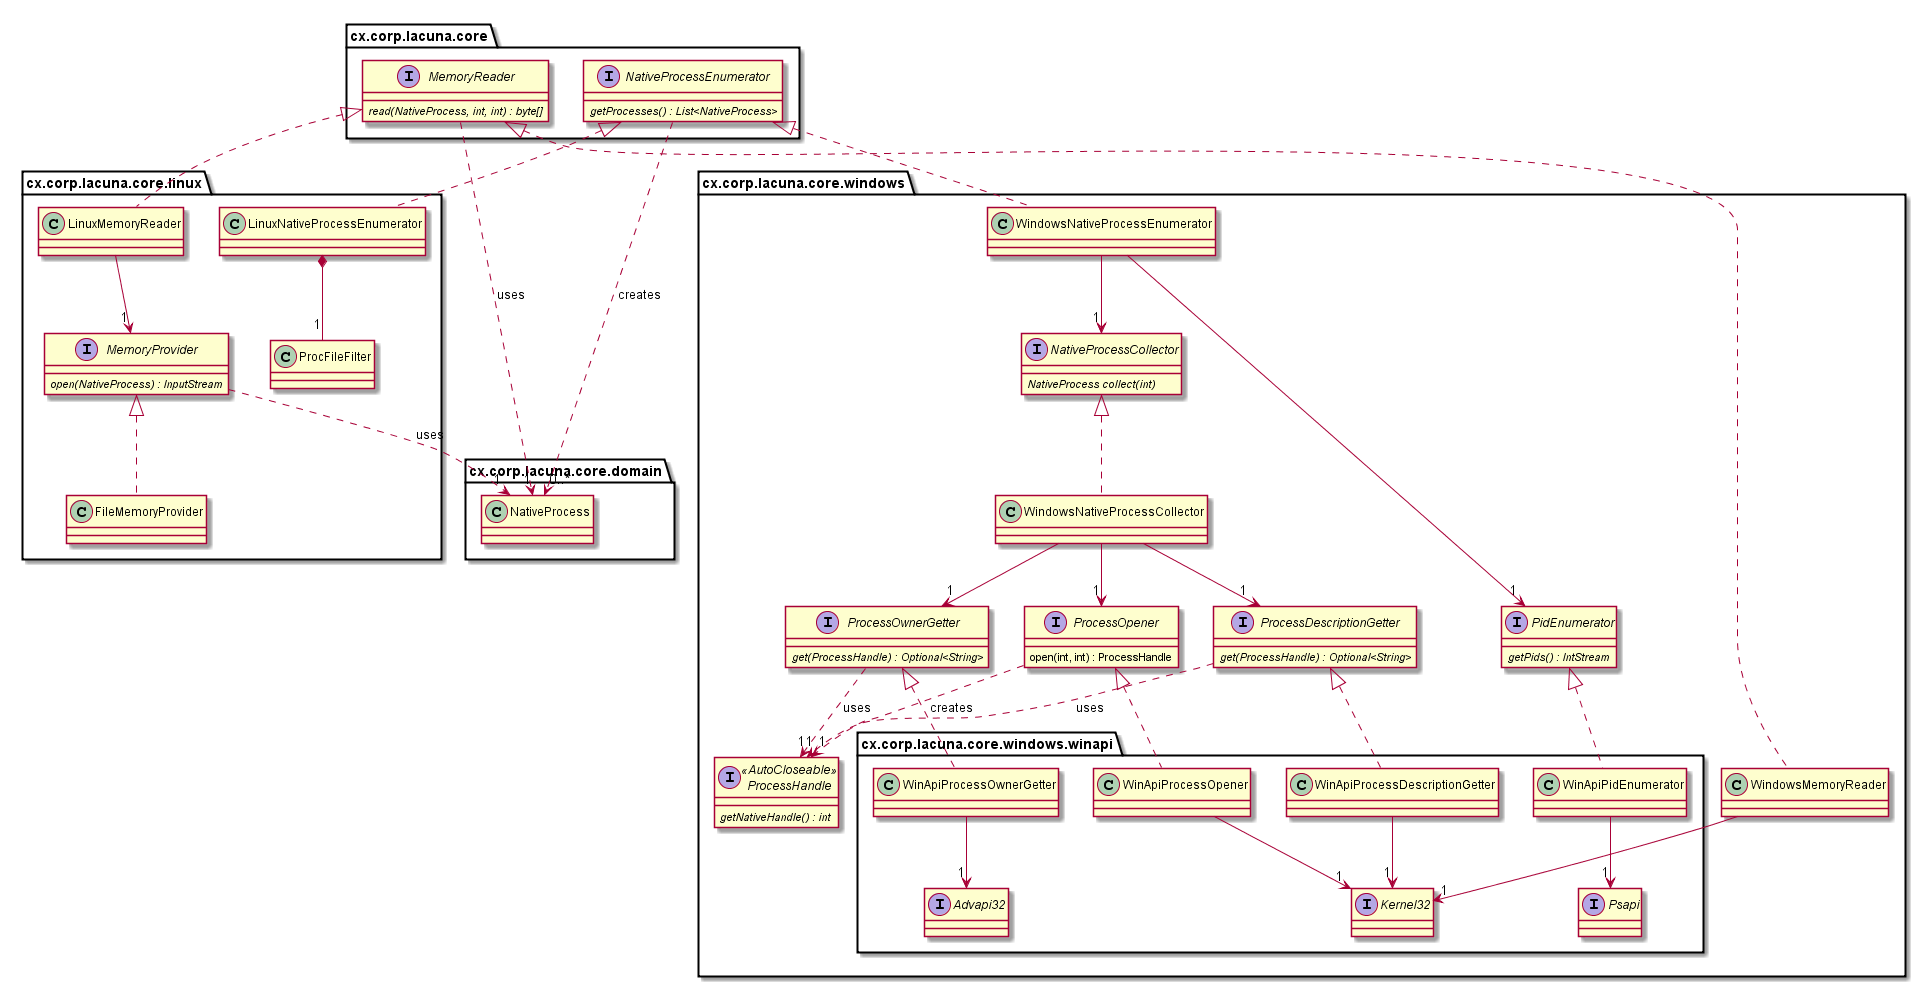
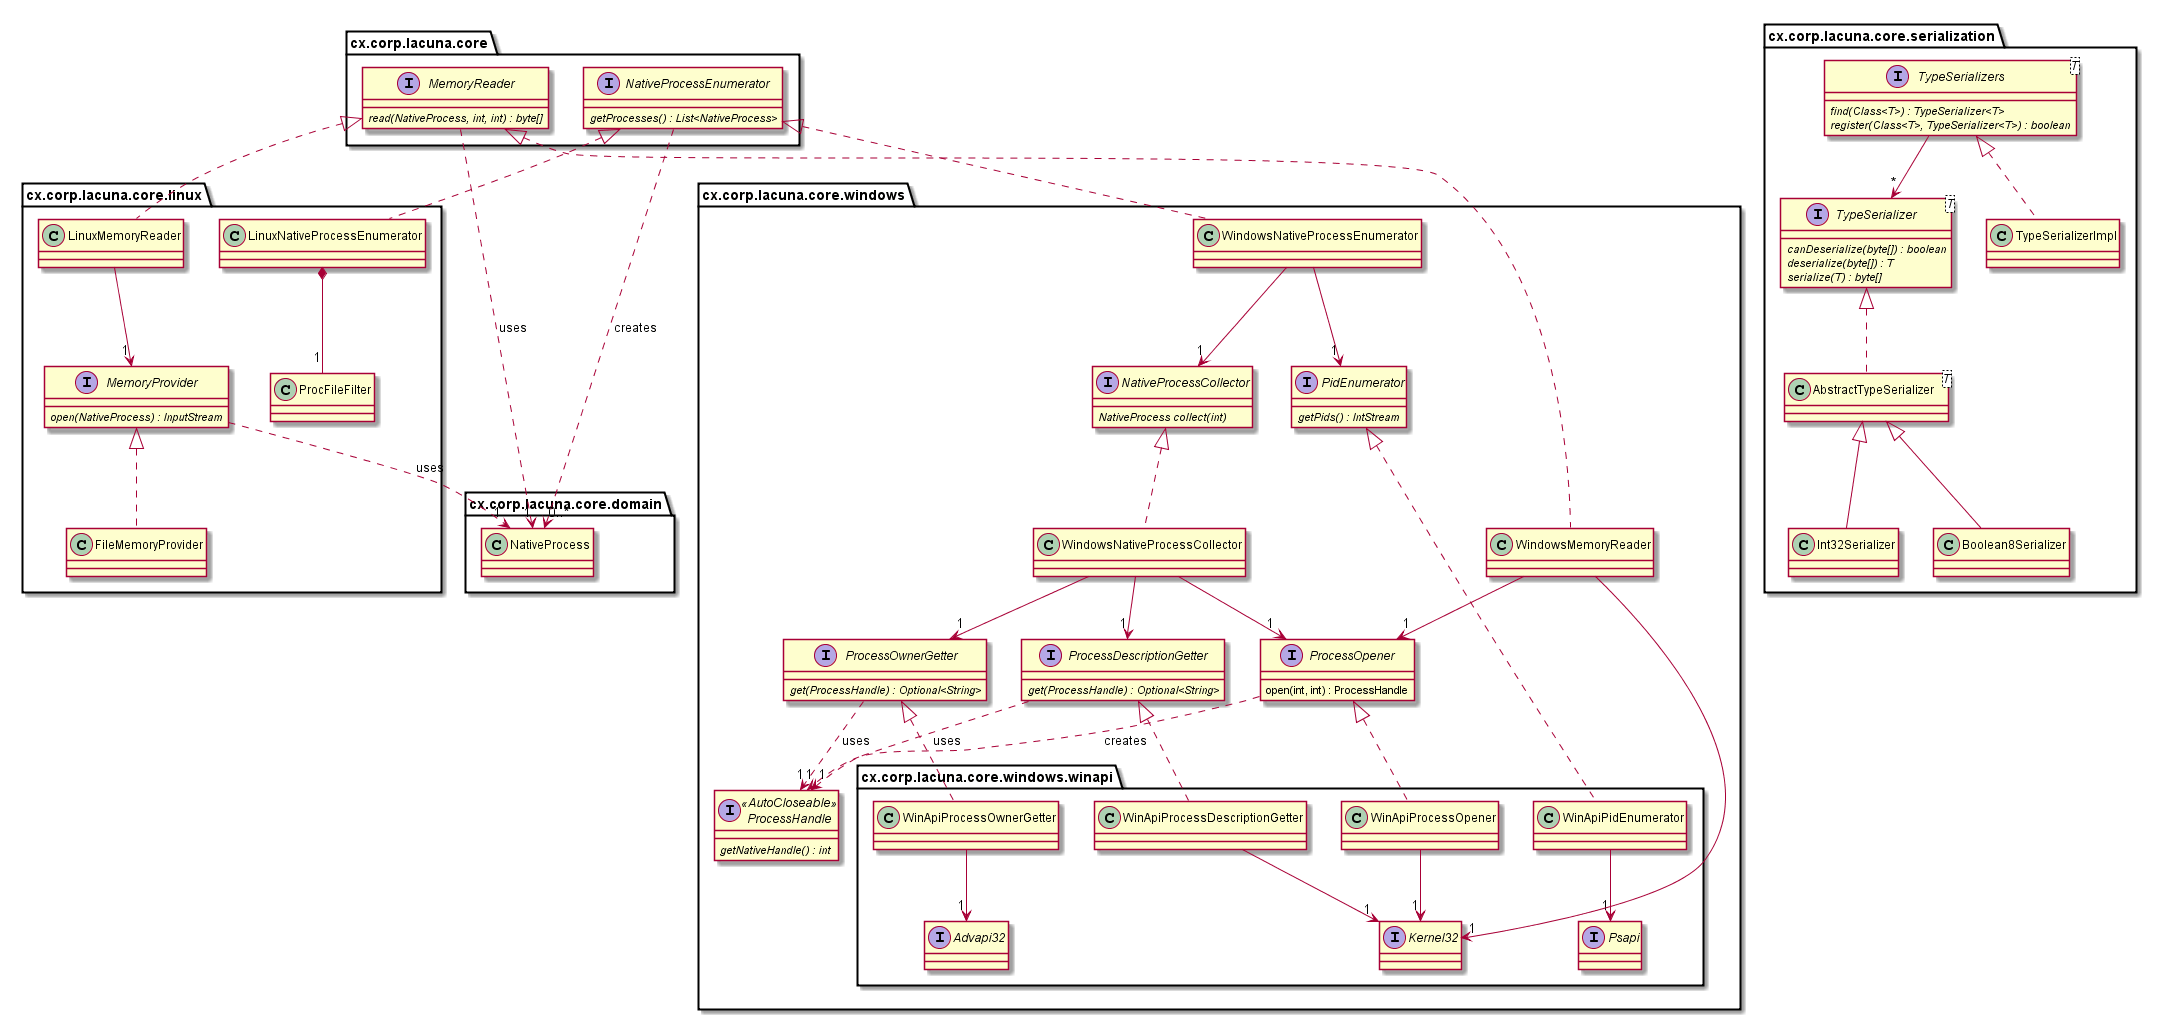
Update graphs, documentation

diff --git a/dokumentaatio/tuntikirjanpito.md b/dokumentaatio/tuntikirjanpito.md
@@ -5,13 +5,16 @@ Päivä | Tunnit | Kuvaus
 19.1.2017 | 3h | Aihemäärittelyn jatkoa. Dokumentaatioindeksin luonti. Trellon luonti.
 20.1.2017 | 6h | Javaprojektin aloitus. Alustavaa UI-säätöä, [JNA](https://github.com/java-native-access/jna):han tutustuminen. Windowsin prosessien listaus. Natiivikirjastojen mockauksen suunnittelu.
 22.1.2017 | 4h | Checkstylen ja testauksen bootstrappaus. Manifestien kanssa kamppailu.
-23.1.2016 | 8h | Prosessien nimien listaus Windowsilla.
-24.1.2016 | 8h | Prosessien listaus Linuxilla. Prosessin omistajan haku Windowsilla.
-25.1.2016 | 6h | Muistin luku Windowsilla, alustava versio. WinAPI:n muistinlukufunktioiden käytön opettelu.
-26.1.2016 | 1h | ^
-27.1.2016 | 5h | Muistin luku Windowsilla, enkapsulointi. Raporttien generointi.
-28.1.2016 | 4h | Alustava versio muistinlukemisesta Linuxilla.
-30.1.2016 | 8h | Linuxin muistinluku loppuun.
-31.1.2016 | 5h | Mavenin raportointitoiminnon tutkiminen, mavenin site-toiminnon tutkiminen, uuden releasen luonti. Linux-puolen yksikkötestaus. Yksikkötestaamisen tutkimista.
-1.2.2016 | 7h | Windows-luokkien refaktorointi testattavammaksi. Windows-luokkien yksikkö- ja integraatiotestien laajennus. Traviksen konfigurointi. UML-kaavioiden uudelleenluonti.
+23.1.2017 | 8h | Prosessien nimien listaus Windowsilla.
+24.1.2017 | 8h | Prosessien listaus Linuxilla. Prosessin omistajan haku Windowsilla.
+25.1.2017 | 6h | Muistin luku Windowsilla, alustava versio. WinAPI:n muistinlukufunktioiden käytön opettelu.
+26.1.2017 | 1h | ^
+27.1.2017 | 5h | Muistin luku Windowsilla, enkapsulointi. Raporttien generointi.
+28.1.2017 | 4h | Alustava versio muistinlukemisesta Linuxilla.
+30.1.2017 | 8h | Linuxin muistinluku loppuun.
+31.1.2017 | 5h | Mavenin raportointitoiminnon tutkiminen, mavenin site-toiminnon tutkiminen, uuden releasen luonti. Linux-puolen yksikkötestaus. Yksikkötestaamisen tutkimista.
+1.2.2017 | 7h | Windows-luokkien refaktorointi testattavammaksi. Windows-luokkien yksikkö- ja integraatiotestien laajennus. Traviksen konfigurointi. UML-kaavioiden uudelleenluonti.
 2.2.2017 | 7h | Windows-luokkien refaktorointi testattavammaksi. Windows-luokkien yksikkötestaus. UML-kaavioiden uudelleenluonti. Raporttien uudelleengenerointi.
+3.2.2017 | 4h | Windows-luokkien refaktorointi.
+4.2.2017 | 6h | UI suunnittelue.
+6.2.2016 | 4h | Tyyppien serialisaatio, 8-bit booleani ja 32-bit kokonaisluku. Testaus. Raporttien generointi.

diff --git a/dokumentaatio/README.md b/dokumentaatio/README.md
@@ -9,4 +9,4 @@
 
 ## Reports
 1. [checkstyle-report](https://htmlpreview.github.io/?https://github.com/cxcorp/lacuna/blob/master/dokumentaatio/checkstyle-raportti/checkstyle.html)
-2. [pit-report](https://htmlpreview.github.io/?https://raw.githubusercontent.com/cxcorp/lacuna/master/dokumentaatio/pit-raportti/201702022335/index.html)
+2. [pit-report](https://htmlpreview.github.io/?https://raw.githubusercontent.com/cxcorp/lacuna/master/dokumentaatio/pit-raportti/201702062016/index.html)
